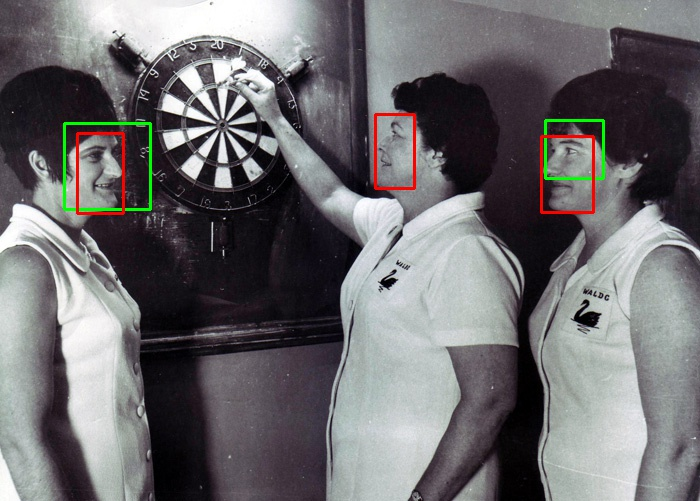
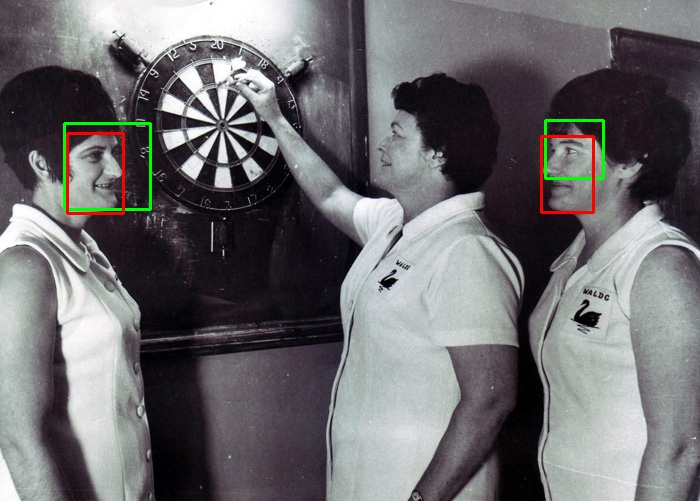
Added Hough lines

Changed region(s): [[0.51, 0.2096, 0.6, 0.3892], [0.09, 0.2395, 0.12, 0.4491]]

diff --git a/Viola_Hough.py b/Viola_Hough.py
@@ -31,42 +31,74 @@ def sobel(image):
     direction_image[direction_image < -np.pi/2] += np.pi
     return magnitude_image, direction_image
 
-def hough(image_name, rmin, rmax, rinc, t1, t2):
+def hough(image_name, image_type, rmin, rmax, rinc, ainc, t1, t2, t3):
     image = cv.imread(image_name)
     image_grey = cv.cvtColor(image, cv.COLOR_RGB2GRAY)
     image_number = int(image_name[5:-4])
     height, width = image.shape[:2]
-
+    
     rmin = int(np.floor((rmin/100)*(np.min(np.array([height, width]))//2)))
     rmax = int(np.floor((rmax/100)*(np.min(np.array([height, width]))//2)))
+    lmax = int(np.floor((np.sqrt(np.square(height//2)+np.square(width//2)))))
 
+    circle_space = np.zeros((rmax, height, width))
+    circle_image = np.zeros((height, width))
+    line_space = np.zeros((lmax, 360))
+    line_image = np.zeros((height, width))
+    
     magnitude_image, direction_image = sobel(image_grey)
-    space = np.zeros((rmax, height, width))
     for y in range(height):
         for x in range(width):
-            for r in range(rmin, rmax, rinc): 
-                if magnitude_image[y, x] > t1:
-                    yp = y+(r*np.sin(direction_image[y, x]))
-                    xp = x+(r*np.cos(direction_image[y, x]))
-                    yn = y-(r*np.sin(direction_image[y, x]))
-                    xn = x-(r*np.cos(direction_image[y, x]))
-                    
-                    if (yp > 0 and yp < height and xp > 0 and xp < width):
-                        space[r, int(yp), int(xp)] += 1
-                    if (yn > 0 and yn < height and xn > 0 and xn < width):
-                        space[r, int(yn), int(xn)] += 1
-    space = threshold(space, t2)
-    image = np.sum(space, axis=0)
-    image = threshold(image, 1)
-    det = []
+            if (image_type == "circles"):
+                for r in range(rmin, rmax, rinc): 
+                    if magnitude_image[y, x] > t1:
+                        yp = y+(r*np.sin(direction_image[y, x]))
+                        xp = x+(r*np.cos(direction_image[y, x]))
+                        yn = y-(r*np.sin(direction_image[y, x]))
+                        xn = x-(r*np.cos(direction_image[y, x]))
+                        
+                        if (yp > 0 and yp < height and xp > 0 and xp < width):
+                            circle_space[r, int(yp), int(xp)] += 1
+                        if (yn > 0 and yn < height and xn > 0 and xn < width):
+                            circle_space[r, int(yn), int(xn)] += 1
+            elif (image_type == "lines"):
+                amin = int(np.clip(np.floor(np.degrees(direction_image[y, x])-6), 0, 360))
+                amax = int(np.clip(np.floor(np.degrees(direction_image[y, x])+6+1), 0, 360))
+                if ((amin > 10 and amax < 80) or (amin > 100 and amax < 170) or (amin > 190 and amax < 260) or (amin > 280 and amax < 350)):
+                    for a in range(amin, amax, ainc): 
+                        if magnitude_image[y, x] > t1:
+                            d = int(np.floor((x-width//2)*np.cos(np.radians(a))+(y-height//2)*np.sin(np.radians(a))))
+                            line_space[d, a] += 1
+
+    circle_space = threshold(circle_space, t2)
+    circle_image = np.sum(circle_space, axis=0)
+    circle_image = threshold(circle_image, 1)
+
+    line_space = threshold(line_space, t3)
+    dn, an = np.nonzero(line_space)
+    for a1 in range(len(an)-1):
+        for a2 in range(a1+1, len(an)):
+            for d1 in range(len(dn)-1):
+                for d2 in range(d1+1, len(dn)):
+                    if (line_space[dn[d1], an[a1]] == 255 and line_space[dn[d2], an[a2]] == 255 and abs(an[a1] - an[a2]) > 5):
+                        a = np.array([[np.cos(np.radians(an[a1])), np.sin(np.radians(an[a1]))], [np.cos(np.radians(an[a2])), np.sin(np.radians(an[a2]))]])
+                        d = np.array([[dn[d1]], [dn[d2]]])
+                        if (np.linalg.det(a) != 0):
+                            x, y = np.linalg.solve(a, d)
+                            x, y = int(np.floor(x+width//2)), int(np.floor(y+height//2))
+                            if (y > 0 and y < height and x > 0 and x < width):
+                                line_image[y, x] = 255
+    det_circles = []
+    det_lines = []
     for y in range(height):
         for x in range(width):
-            if (image[y, x] == 255):
-                det.append([y, x])
-    det = np.asarray(det)
-    #cv.imshow("Hough", image)
-    #cv.waitKey(0)
-    return det
+            if (circle_image[y, x] == 255):
+                det_circles.append([y, x])
+            if (line_image[y, x] == 255):
+                det_lines.append([y, x])
+    det_circles = np.asarray(det_circles)
+    det_lines = np.asarray(det_lines)
+    return det_circles, det_lines
 
 def draw(image, boxes, colour, width):
     for i in range(len(boxes)):
@@ -141,31 +173,29 @@ def get_objects(image_number):
     if (image_number == 14): return img14_darts
     if (image_number == 15): return img15_darts
 
-def viola_jones(image_name, t3):
+def viola_jones(image_name, nmin, t4):
     image = cv.imread(image_name)
     image_grey = cv.cvtColor(image, cv.COLOR_RGB2GRAY)
     image_grey = cv.equalizeHist(image_grey)
     image_number = int(image_name[5:-4])
 
-    det = cv.CascadeClassifier("darts.xml").detectMultiScale(image_grey, 1.1, 3)
+    det = cv.CascadeClassifier("darts.xml").detectMultiScale(image_grey, 1.1, nmin)
     det = np.array([[x, y, w+x, h+y] for (x, y, w, h) in det])
     tru = get_objects(image_number)
     tru = np.array([[x, y, w+x, h+y] for (x, y, w, h) in tru])
-    evaluate(tru, det, t3)
+    evaluate(tru, det, t4)
 
     draw(image, det, (0, 0, 255), 2)
     draw(image, tru, (0, 255, 0), 2)
-    #cv.imshow("Viola", image)
-    #cv.waitKey(0)
     return det, tru
 
-def viola_hough(image_name, rmin, rmax, rinc, t1, t2, t3, t4): 
-    #t1 & t2 are hough thresholds, t3 is viola_jones threshold, t4 is viola_hough threshold
+def viola_hough(image_name, rmin, rmax, rinc, ainc, nmin, t1, t2, t3, t4, t5): 
+    #t1, t2, t3 are hough thresholds, t4 is viola_jones threshold, t5 is viola_hough threshold
     image = cv.imread(image_name)
     image_number = int(image_name[5:-4])
     height, width = image.shape[:2]
-    det_circles = hough(image_name, rmin, rmax, rinc, t1, t2)
-    det_objects, tru_objects = viola_jones(image_name, t3)
+    det_circles, det_lines = hough(image_name, rmin, rmax, rinc, ainc, t1, t2, t3)
+    det_objects, tru_objects = viola_jones(image_name, nmin, t4)
     
     det_combo = []
     for (x1, y1, x2, y2) in det_objects:
@@ -173,14 +203,13 @@ def viola_hough(image_name, rmin, rmax, rinc, t1, t2, t3, t4):
         for (y, x) in det_circles:
             if (y >= y1 and y <= y2 and x >= x1 and x <= x2):
                 votes += 1
-        print(votes)
-        if (votes > t4):
+        for (y, x) in det_lines:
+            if (y >= y1 and y <= y2 and x >= x1 and x <= x2):
+                votes += 1
+        if (votes > t5):
             det_combo.append([x1, y1, x2, y2])
     det_combo = np.asarray(det_combo)
     
-    pprint(det_circles)
-    pprint(det_objects)
-    pprint(det_combo)
     draw(image, det_combo, (0, 255,  0), 2)
     draw(image, tru_objects, (0, 0, 255), 2)
     cv.imwrite("viola_hough_output"+str(image_number)+".jpg", image)
@@ -188,4 +217,4 @@ def viola_hough(image_name, rmin, rmax, rinc, t1, t2, t3, t4):
     cv.waitKey(0)
 
 image_name = input("Please enter image name: ")
-viola_hough(image_name, 15, 35, 1, 200, 10, 0.6, 40)
+viola_hough(image_name, 15, 35, 1, 2, 3, 200, 10, 20, 0.5, 40)

diff --git a/Hough.py b/Hough.py
@@ -28,7 +28,7 @@ def sobel(image):
     magnitude_image, direction_image = cv.cartToPolar(x_deriv_image, y_deriv_image)
     return magnitude_image, direction_image
 
-def hough(image_name, rmin, rmax, rinc, t1, t2):
+def hough(image_name, image_type, rmin, rmax, rinc, ainc, t1, t2, t3):
     image = cv.imread(image_name)
     image_grey = cv.cvtColor(image, cv.COLOR_RGB2GRAY)
     image_number = int(image_name[5:-4])
@@ -36,44 +36,72 @@ def hough(image_name, rmin, rmax, rinc, t1, t2):
     
     rmin = int(np.floor((rmin/100)*(np.min(np.array([height, width]))//2)))
     rmax = int(np.floor((rmax/100)*(np.min(np.array([height, width]))//2)))
+    lmax = int(np.floor((np.sqrt(np.square(height//2)+np.square(width//2)))))
 
+    circle_space = np.zeros((rmax, height, width))
+    circle_image = np.zeros((height, width))
+    line_space = np.zeros((lmax, 360))
+    line_image = np.zeros((height, width))
+    
     magnitude_image, direction_image = sobel(image_grey)
-    space = np.zeros((rmax, height, width))
     for y in range(height):
         for x in range(width):
-            for r in range(rmin, rmax, rinc): 
-                if magnitude_image[y, x] > t1:
-                    yp = y+(r*np.sin(direction_image[y, x]))
-                    xp = x+(r*np.cos(direction_image[y, x]))
-                    yn = y-(r*np.sin(direction_image[y, x]))
-                    xn = x-(r*np.cos(direction_image[y, x]))
-                    
-                    if (yp > 0 and yp < height and xp > 0 and xp < width):
-                        space[r, int(yp), int(xp)] += 1
-                    if (yn > 0 and yn < height and xn > 0 and xn < width):
-                        space[r, int(yn), int(xn)] += 1
-    space = threshold(space, t2)
-    image = np.sum(space, axis=0)
-    image = threshold(image, 1)
-    cv.imwrite("hough_output"+str(image_number)+".jpg", image)
+            if (image_type == "circles"):
+                for r in range(rmin, rmax, rinc): 
+                    if magnitude_image[y, x] > t1:
+                        yp = y+(r*np.sin(direction_image[y, x]))
+                        xp = x+(r*np.cos(direction_image[y, x]))
+                        yn = y-(r*np.sin(direction_image[y, x]))
+                        xn = x-(r*np.cos(direction_image[y, x]))
+                        
+                        if (yp > 0 and yp < height and xp > 0 and xp < width):
+                            circle_space[r, int(yp), int(xp)] += 1
+                        if (yn > 0 and yn < height and xn > 0 and xn < width):
+                            circle_space[r, int(yn), int(xn)] += 1
+            elif (image_type == "lines"):
+                amin = int(np.clip(np.floor(np.degrees(direction_image[y, x])-6), 0, 360))
+                amax = int(np.clip(np.floor(np.degrees(direction_image[y, x])+6+1), 0, 360))
+                if ((amin > 10 and amax < 80) or (amin > 100 and amax < 170) or (amin > 190 and amax < 260) or (amin > 280 and amax < 350)):
+                    for a in range(amin, amax, ainc): 
+                        if magnitude_image[y, x] > t1:
+                            d = int(np.floor((x-width//2)*np.cos(np.radians(a))+(y-height//2)*np.sin(np.radians(a))))
+                            line_space[d, a] += 1
+
+    circle_space = threshold(circle_space, t2)
+    circle_image = np.sum(circle_space, axis=0)
+    circle_image = threshold(circle_image, 1)
+
+    line_space = threshold(line_space, t3)
+    dn, an = np.nonzero(line_space)
+    for a1 in range(len(an)-1):
+        for a2 in range(a1+1, len(an)):
+            for d1 in range(len(dn)-1):
+                for d2 in range(d1+1, len(dn)):
+                    if (line_space[dn[d1], an[a1]] == 255 and line_space[dn[d2], an[a2]] == 255 and abs(an[a1] - an[a2]) > 5):
+                        a = np.array([[np.cos(np.radians(an[a1])), np.sin(np.radians(an[a1]))], [np.cos(np.radians(an[a2])), np.sin(np.radians(an[a2]))]])
+                        d = np.array([[dn[d1]], [dn[d2]]])
+                        if (np.linalg.det(a) != 0):
+                            x, y = np.linalg.solve(a, d)
+                            x, y = int(np.floor(x+width//2)), int(np.floor(y+height//2))
+                            if (y > 0 and y < height and x > 0 and x < width):
+                                line_image[y, x] = 255
+
+    if (image_type == "circles"):
+        cv.imwrite("hough_"+str(image_type)+"_output"+str(image_number)+".jpg", circle_image)
+    elif (image_type == "lines"):
+        cv.imwrite("hough_"+str(image_type)+"_output"+str(image_number)+".jpg", line_image)
+
+    #Notes for report, made the space smaller by centering the origin, used direction image
+    #didn't add horizontal or vertical lines, didn't check for intersections between similar angle lines
+
+    #TOO FIX - TAKES REALLY LONG ON INPUT9!
 
 image_name = input("Please enter image name: ")
-hough(image_name, 15, 35, 1, 200, 10) 
+image_type = input("Please enter image type: ")
+hough(image_name, image_type, 15, 35, 1, 2, 200, 10, 20) 
 '''
-hough("input0.jpg", 15, 35, 1, 200, 10)
-hough("input1.jpg", 15, 35, 1, 200, 10)
-hough("input2.jpg", 15, 35, 1, 200, 10)
-hough("input3.jpg", 15, 35, 1, 200, 10)
-hough("input4.jpg", 15, 35, 1, 200, 10)
-hough("input5.jpg", 15, 35, 1, 200, 10)
-hough("input6.jpg", 15, 35, 1, 200, 10)
-hough("input7.jpg", 15, 35, 1, 200, 10)
-hough("input8.jpg", 15, 35, 1, 200, 10)
-hough("input9.jpg", 15, 35, 1, 200, 10)
-hough("input10.jpg", 15, 35, 1, 200, 10)
-hough("input11.jpg", 15, 35, 1, 200, 10)
-hough("input12.jpg", 15, 35, 1, 200, 10)
-hough("input13.jpg", 15, 35, 1, 200, 10)
-hough("input14.jpg", 15, 35, 1, 200, 10)
-hough("input15.jpg", 15, 35, 1, 200, 10)
+for n in range(16):
+    image_name = "input"+str(n)+".jpg"
+    #hough(image_name, "circles", 15, 35, 1, 2, 200, 10, 20)
+    hough(image_name, "lines", 15, 35, 1, 2, 200, 10, 20)
 '''

diff --git a/Viola_Jones.py b/Viola_Jones.py
@@ -64,7 +64,7 @@ def get_objects(image_type, image_number):
     img5_faces = np.array([[59, 139, 65, 64], [51, 250, 65, 69], [192, 212, 57, 72], [242, 167, 66, 66], [289, 238, 56, 74], [375, 192, 68, 58], [426, 232, 58, 71], [514, 176, 65, 66], [555, 240, 69, 76], [646, 186, 63, 64], [681, 244, 52, 68]])
     img13_faces = np.array([[420, 131, 118, 128]])
     img14_faces = np.array([[456, 215, 99, 108], [727, 190, 104, 105]])
-    img15_faces = np.array([[77, 133, 46, 80], [375, 114, 39, 74], [541, 136, 52, 76]])
+    img15_faces = np.array([[67, 133, 56, 80], [541, 136, 52, 76]])
 
     if (image_type == "darts"):
         if (image_number == 0): return img0_darts
@@ -90,13 +90,13 @@ def get_objects(image_type, image_number):
         if (image_number == 14): return img14_faces
         if (image_number == 15): return img15_faces
 
-def viola_jones(image_name, image_type, threshold):
+def viola_jones(image_name, image_type, nmin, threshold):
     image = cv.imread(image_name)
     image_grey = cv.cvtColor(image, cv.COLOR_RGB2GRAY)
     image_grey = cv.equalizeHist(image_grey)
     image_number = int(image_name[5:-4])
 
-    det = cv.CascadeClassifier(image_type+".xml").detectMultiScale(image_grey, 1.1, 3)
+    det = cv.CascadeClassifier(image_type+".xml").detectMultiScale(image_grey, 1.1, nmin)
     det = np.array([[x, y, w+x, h+y] for (x, y, w, h) in det])
     tru = get_objects(image_type, image_number)
     tru = np.array([[x, y, w+x, h+y] for (x, y, w, h) in tru])
@@ -108,28 +108,14 @@ def viola_jones(image_name, image_type, threshold):
 
 image_name = input("Please enter image name: ")
 image_type = input("Please enter image type: ")
-viola_jones(image_name, image_type, 0.6)
+viola_jones(image_name, image_type, 3, 0.5)
 '''
-viola_jones("input0.jpg", "darts", 0.6)
-viola_jones("input1.jpg", "darts", 0.6)
-viola_jones("input2.jpg", "darts", 0.6)
-viola_jones("input3.jpg", "darts", 0.6)
-viola_jones("input4.jpg", "darts", 0.6)
-viola_jones("input5.jpg", "darts", 0.6)
-viola_jones("input6.jpg", "darts", 0.6)
-viola_jones("input7.jpg", "darts", 0.6)
-viola_jones("input8.jpg", "darts", 0.6)
-viola_jones("input9.jpg", "darts", 0.6)
-viola_jones("input10.jpg", "darts", 0.6)
-viola_jones("input11.jpg", "darts", 0.6)
-viola_jones("input12.jpg", "darts", 0.6)
-viola_jones("input13.jpg", "darts", 0.6)
-viola_jones("input14.jpg", "darts", 0.6)
-viola_jones("input15.jpg", "darts", 0.6)
+for n in range(16):
+    image_name = "input"+str(n)+".jpg"
+    viola_jones(image_name, "darts", 3, 0.5)
 
-viola_jones("input4.jpg", "faces", 0.6)
-viola_jones("input5.jpg", "faces", 0.6)
-viola_jones("input13.jpg", "faces", 0.6)
-viola_jones("input14.jpg", "faces", 0.6)
-viola_jones("input15.jpg", "faces", 0.6)
+i = np.array([4, 5, 13, 14, 15])
+for n in i:
+    image_name = "input"+str(n)+".jpg"
+    viola_jones(image_name, "faces", 3, 0.5)
 '''
